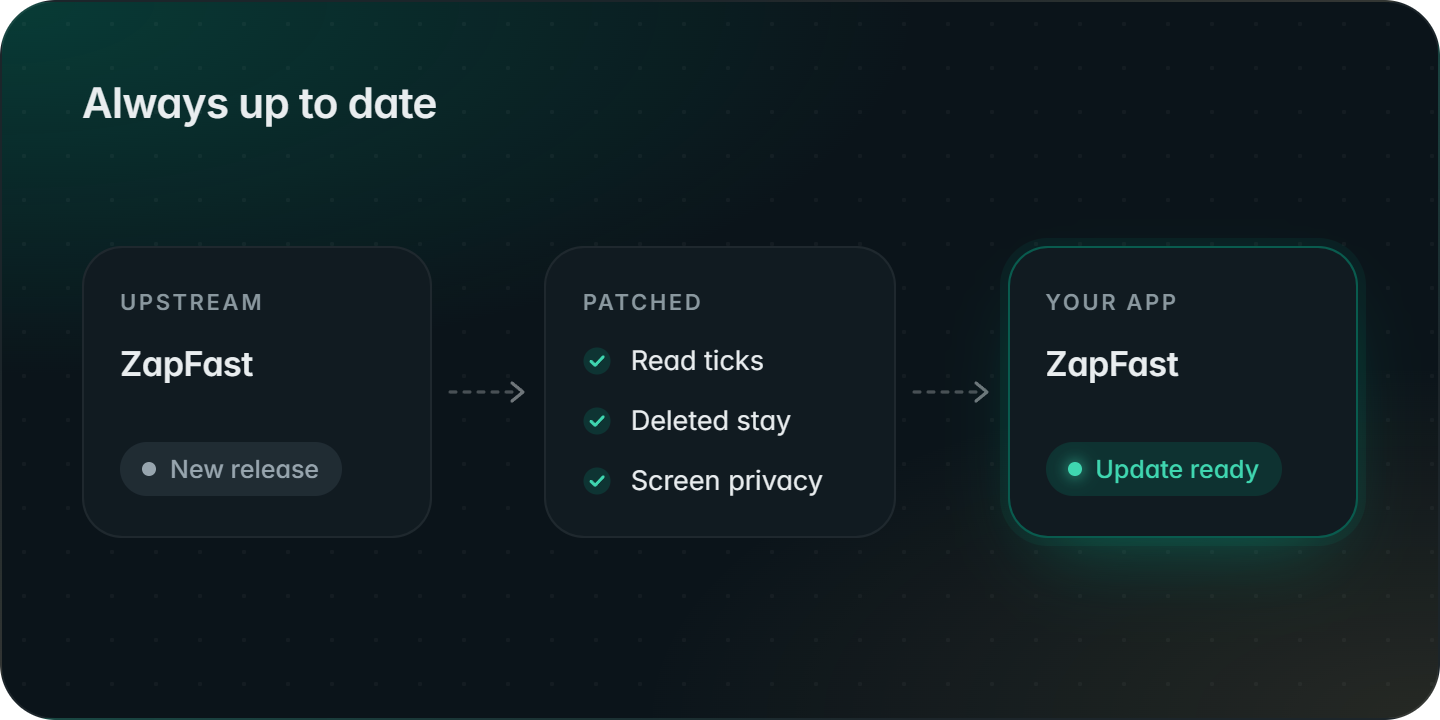
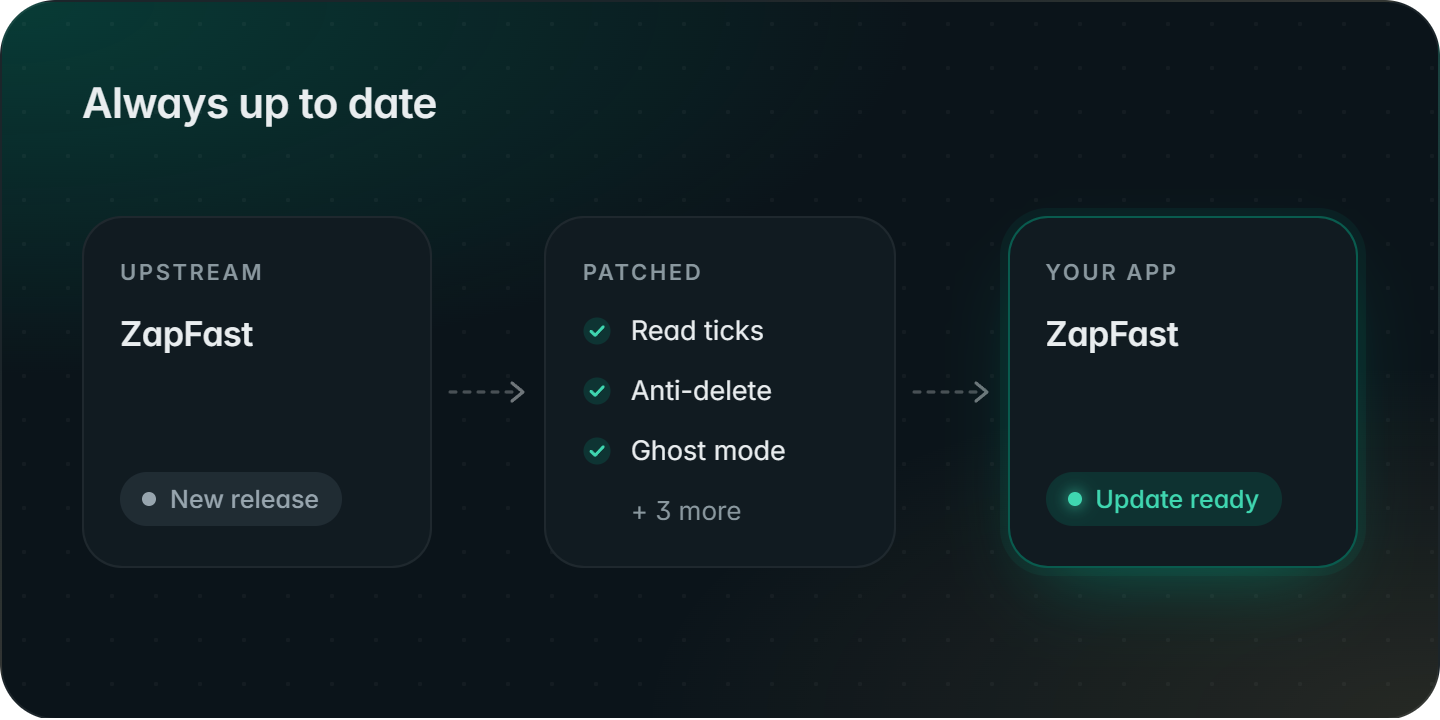
Add a macOS build; README: edit history, ghost mode, scheduled messages

diff --git a/docs/visuals/showcase.html b/docs/visuals/showcase.html
@@ -170,10 +170,79 @@
   .chip.accent .dot { background: #3fd6b0; box-shadow: 0 0 8px #3fd6b0; }
   .patch { display: flex; align-items: center; gap: 9px; font-size: 13.5px; color: var(--text); }
   .patch svg { width: 15px; height: 15px; flex: none; }
+  .patch.more { color: var(--dim); padding-left: 24px; font-size: 13px; }
   .link { display: grid; place-items: center; }
   .link svg { width: 40px; height: 14px; }
   .icon { width: 34px; height: 34px; border-radius: 10px; display: grid; place-items: center; }
   .icon svg { width: 18px; height: 18px; }
+
+  #edits-card { --glow: rgba(255, 196, 92, 0.24); --glow-2: rgba(241, 92, 109, 0.09); }
+  #ghost-card { --glow: rgba(148, 170, 196, 0.26); --glow-2: rgba(139, 124, 246, 0.10); }
+  #scheduled-card { --glow: rgba(98, 140, 255, 0.26); --glow-2: rgba(0, 168, 132, 0.11); }
+
+  /* Edit history */
+  .stage-center { flex: 1; display: grid; place-items: center; }
+  .edit-demo { position: relative; padding-top: 86px; }
+  .tip {
+    position: absolute; top: 0; right: -22px; width: 250px;
+    padding: 12px 14px; border-radius: 12px;
+    background: #2a3942; border: 1px solid rgba(255, 255, 255, 0.08);
+    box-shadow: 0 16px 36px -14px rgba(0, 0, 0, 0.75);
+  }
+  .tip::after {
+    content: ""; position: absolute; bottom: -7px; right: 72px; width: 14px; height: 14px;
+    background: #2a3942; transform: rotate(45deg);
+    border-right: 1px solid rgba(255, 255, 255, 0.08); border-bottom: 1px solid rgba(255, 255, 255, 0.08);
+  }
+  .tip .k { font-size: 11px; font-weight: 600; letter-spacing: 0.12em; text-transform: uppercase; color: #ffc45c; }
+  .tip .v { margin-top: 5px; font-size: 15px; color: var(--text); }
+  .edited-mark { color: var(--secondary); text-decoration: underline dotted rgba(233, 237, 239, 0.5); text-underline-offset: 3px; }
+
+  /* Ghost mode */
+  .switch.on { background: var(--accent); }
+  .switch.on::after { left: auto; right: 3px; background: #fff; }
+  .presence {
+    display: inline-flex; align-items: center; gap: 13px; min-width: 300px;
+    padding: 12px 18px 12px 12px; border-radius: 16px;
+    background: var(--panel); border: 1px solid rgba(255, 255, 255, 0.06);
+  }
+  .row.before .presence { opacity: 0.55; }
+  .presence .avatar { width: 42px; height: 42px; font-size: 15px; }
+  .presence .name { font-size: 16px; font-weight: 500; }
+  .presence .status { margin-top: 3px; font-size: 13px; color: var(--secondary); }
+  .presence .status.online { color: #3fd6b0; }
+
+  /* Scheduled messages */
+  .compose { flex: 1; display: flex; flex-direction: column; justify-content: flex-end; gap: 10px; position: relative; }
+  .sched-strip {
+    display: flex; align-items: center; gap: 10px;
+    padding: 10px 12px 10px 14px; border-radius: 16px; background: var(--in);
+    font-size: 13.5px;
+  }
+  .sched-strip svg.clock { width: 16px; height: 16px; color: var(--accent); flex: none; }
+  .sched-strip .when { color: var(--accent); font-weight: 600; }
+  .sched-strip .what { color: var(--secondary); flex: 1; }
+  .sched-strip .x { color: var(--dim); font-size: 16px; padding: 0 4px; }
+  .composer-row { display: flex; align-items: center; gap: 10px; }
+  .composer {
+    flex: 1; padding: 13px 18px; border-radius: 26px; background: var(--surface);
+    font-size: 15px; color: var(--text);
+  }
+  .send-btn {
+    width: 46px; height: 46px; border-radius: 50%; background: var(--accent);
+    display: grid; place-items: center; box-shadow: 0 0 0 5px rgba(0, 168, 132, 0.14);
+  }
+  .send-btn svg { width: 20px; height: 20px; color: #0b141a; }
+  .menu {
+    position: absolute; right: 0; bottom: 124px; width: 230px;
+    padding: 8px; border-radius: 14px; background: #233138;
+    border: 1px solid rgba(255, 255, 255, 0.08);
+    box-shadow: 0 22px 44px -16px rgba(0, 0, 0, 0.8);
+  }
+  .menu .head { font-size: 12px; font-weight: 600; color: var(--secondary); padding: 4px 10px 6px; }
+  .menu .item { display: flex; align-items: center; gap: 10px; padding: 7px 10px; border-radius: 8px; font-size: 13.5px; }
+  .menu .item svg { width: 15px; height: 15px; color: var(--secondary); }
+  .menu .item.hot { background: var(--hover); }
 </style>
 </head>
 <body>
@@ -186,6 +255,13 @@
     <symbol id="check" viewBox="0 0 16 16">
       <circle cx="8" cy="8" r="7.2" fill="rgba(0,168,132,0.18)"/>
       <path d="M4.8 8.2 7 10.3 11.3 5.8" fill="none" stroke="#3fd6b0" stroke-width="1.6" stroke-linecap="round" stroke-linejoin="round"/>
+    </symbol>
+    <symbol id="clock" viewBox="0 0 24 24">
+      <circle cx="12" cy="12" r="9" fill="none" stroke="currentColor" stroke-width="2"/>
+      <path d="M12 7v5l3 2" fill="none" stroke="currentColor" stroke-width="2" stroke-linecap="round" stroke-linejoin="round"/>
+    </symbol>
+    <symbol id="send" viewBox="0 0 24 24">
+      <path d="M4 12 20 4l-6 16-2.5-6.5L4 12Z" fill="currentColor"/>
     </symbol>
     <symbol id="arrow" viewBox="0 0 40 14">
       <path d="M1 7h34" stroke="rgba(233,237,239,0.28)" stroke-width="1.6" stroke-dasharray="3 4" stroke-linecap="round"/>
@@ -267,6 +343,69 @@
     </div>
   </section>
 
+  <!-- 5. Edit history -->
+  <section class="card" id="edits-card">
+    <header><div class="title">Edits keep their history</div></header>
+    <div class="stage-center">
+      <div class="edit-demo">
+        <div class="tip"><div class="k">Before the edit</div><div class="v">Running 30 min late</div></div>
+        <div class="bubble in">Running 10 min late
+          <span class="meta"><span class="edited-mark">edited</span> 21:14</span>
+        </div>
+        <svg class="cursor" style="right:50px; top:118px" viewBox="0 0 22 30">
+          <path d="M2 2v22.5l5.6-5.2 3.9 8.8 3.9-1.7-3.8-8.7H19L2 2Z" fill="#fff" stroke="#0b141a" stroke-width="1.5" stroke-linejoin="round"/>
+        </svg>
+      </div>
+    </div>
+  </section>
+
+  <!-- 6. Ghost mode -->
+  <section class="card" id="ghost-card">
+    <header>
+      <div class="title">Ghost mode</div>
+      <div class="pill">Ghost mode <span class="switch on"></span></div>
+    </header>
+    <div class="rows">
+      <div class="row before">
+        <span class="tag">ZapFast</span>
+        <div class="presence">
+          <div class="avatar" style="background:#e7b16a">Y</div>
+          <div><div class="name">You</div><div class="status online">online</div></div>
+        </div>
+      </div>
+      <div class="row">
+        <span class="tag on">Patched</span>
+        <div class="presence">
+          <div class="avatar" style="background:#e7b16a">Y</div>
+          <div><div class="name">You</div><div class="status">last seen today at 18:02</div></div>
+        </div>
+      </div>
+    </div>
+  </section>
+
+  <!-- 7. Scheduled messages -->
+  <section class="card" id="scheduled-card">
+    <header><div class="title">Scheduled messages</div></header>
+    <div class="compose">
+      <div class="menu">
+        <div class="head">Send later</div>
+        <div class="item"><svg><use href="#clock"/></svg>In 1 hour</div>
+        <div class="item"><svg><use href="#clock"/></svg>Tonight at 21:00</div>
+        <div class="item hot"><svg><use href="#clock"/></svg>Tomorrow at 09:00</div>
+      </div>
+      <div class="sched-strip">
+        <svg class="clock"><use href="#clock"/></svg>
+        <span class="when">Tomorrow at 09:00</span>
+        <span class="what">Happy birthday!</span>
+        <span class="x">×</span>
+      </div>
+      <div class="composer-row">
+        <div class="composer">Don't forget the tickets</div>
+        <div class="send-btn"><svg><use href="#send"/></svg></div>
+      </div>
+    </div>
+  </section>
+
   <!-- 4. Always up to date -->
   <section class="card" id="updates-card">
     <header><div class="title">Always up to date</div></header>
@@ -280,8 +419,9 @@
       <div class="node">
         <div class="label">Patched</div>
         <div class="patch"><svg><use href="#check"/></svg>Read ticks</div>
-        <div class="patch"><svg><use href="#check"/></svg>Deleted stay</div>
-        <div class="patch"><svg><use href="#check"/></svg>Screen privacy</div>
+        <div class="patch"><svg><use href="#check"/></svg>Anti-delete</div>
+        <div class="patch"><svg><use href="#check"/></svg>Ghost mode</div>
+        <div class="patch more">+ 3 more</div>
       </div>
       <div class="link"><svg><use href="#arrow"/></svg></div>
       <div class="node you">

diff --git a/docs/visuals/render.py b/docs/visuals/render.py
@@ -13,6 +13,9 @@ CARDS = {
     "ticks-card": "ticks.png",
     "deleted-card": "deleted.png",
     "privacy-card": "privacy.png",
+    "edits-card": "edits.png",
+    "ghost-card": "ghost.png",
+    "scheduled-card": "scheduled.png",
     "updates-card": "updates.png",
 }
 

diff --git a/README.md b/README.md
@@ -4,7 +4,10 @@
 
 - **Read ticks always show**, even with your account's read receipts off.
 - **Deleted messages stay.** Messages others delete for everyone are kept and marked *deleted*.
+- **Edits keep their history.** Hover *edited* on someone's message to see what it said before.
 - **Screen privacy.** Covers chats, messages, media, names and avatars until hovered (Ctrl+Shift+H, off by default). By [paulo1403](https://github.com/paulo1403) ([crmne/zapfast#451](https://github.com/crmne/zapfast/pull/451)), via [ZapFaster](https://github.com/eternalwaitt/zap-faster).
+- **Ghost mode.** Never shows you as online (Settings → Privacy, off by default).
+- **Scheduled messages.** Right-click Send to send later. Waiting messages sit above the composer until they go.
 - **Updates come from this repository**, so they keep these changes.
 
 <p align="center">
@@ -12,7 +15,14 @@
   <img src="docs/deleted.png" width="49%" alt="A message deleted for everyone stays, marked deleted">
 </p>
 <p align="center">
+  <img src="docs/edits.png" width="49%" alt="Hovering edited shows what the message said before">
   <img src="docs/privacy.png" width="49%" alt="Screen privacy covers the chat list until you hover a row">
+</p>
+<p align="center">
+  <img src="docs/ghost.png" width="49%" alt="With ghost mode on, others see your last seen instead of online">
+  <img src="docs/scheduled.png" width="49%" alt="Right-click Send to schedule a message for later">
+</p>
+<p align="center">
   <img src="docs/updates.png" width="49%" alt="Each upstream release is patched and offered as an update">
 </p>
 
